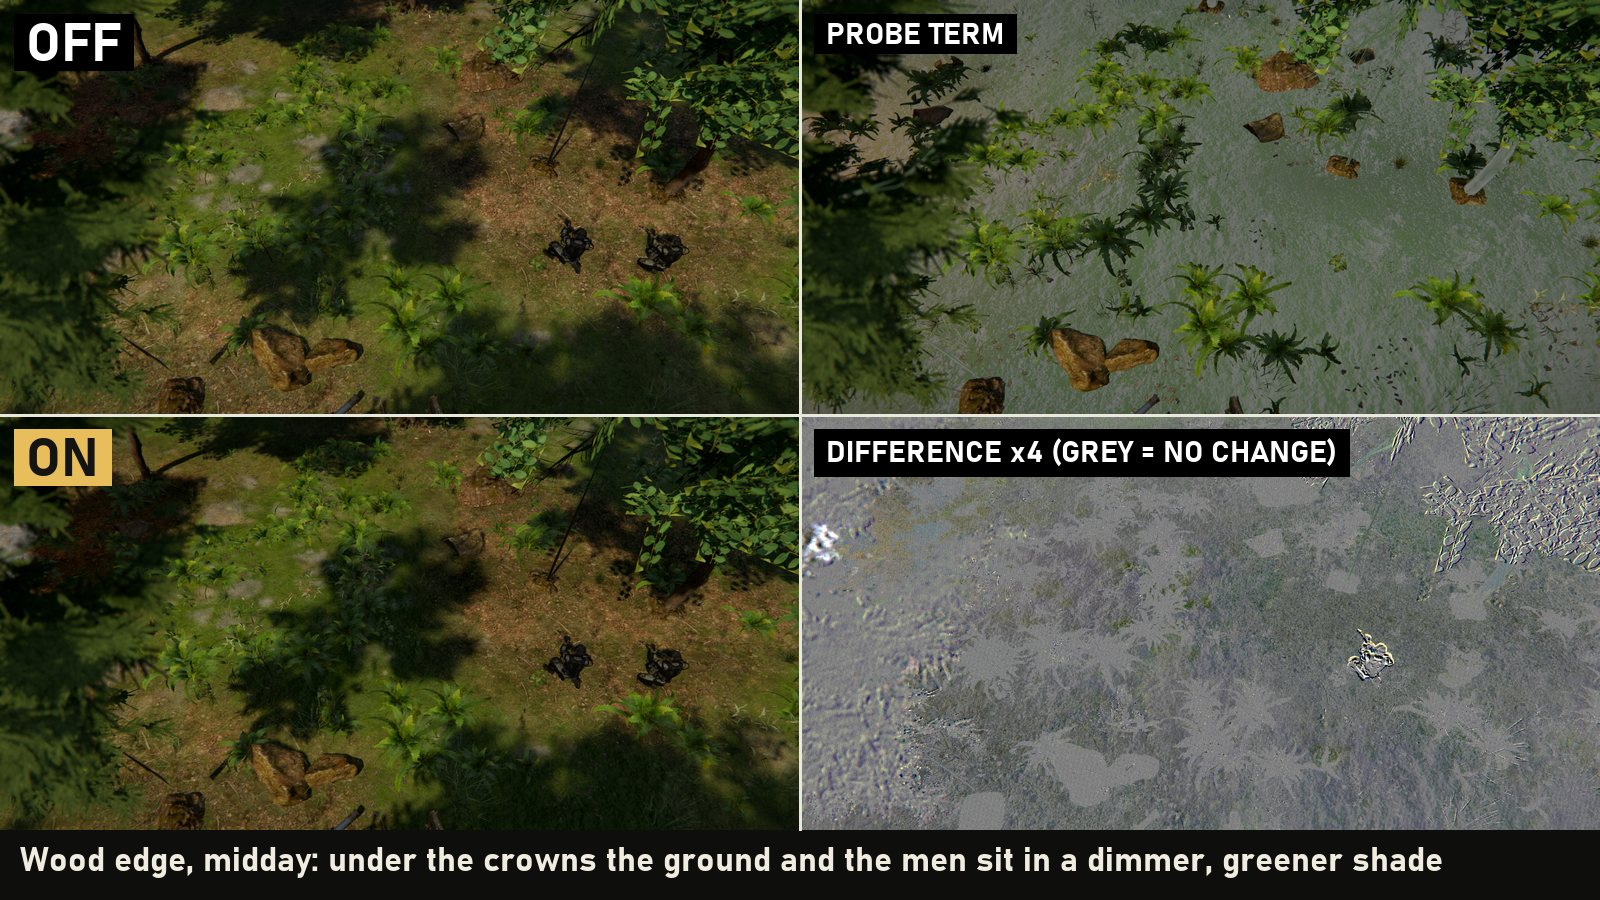
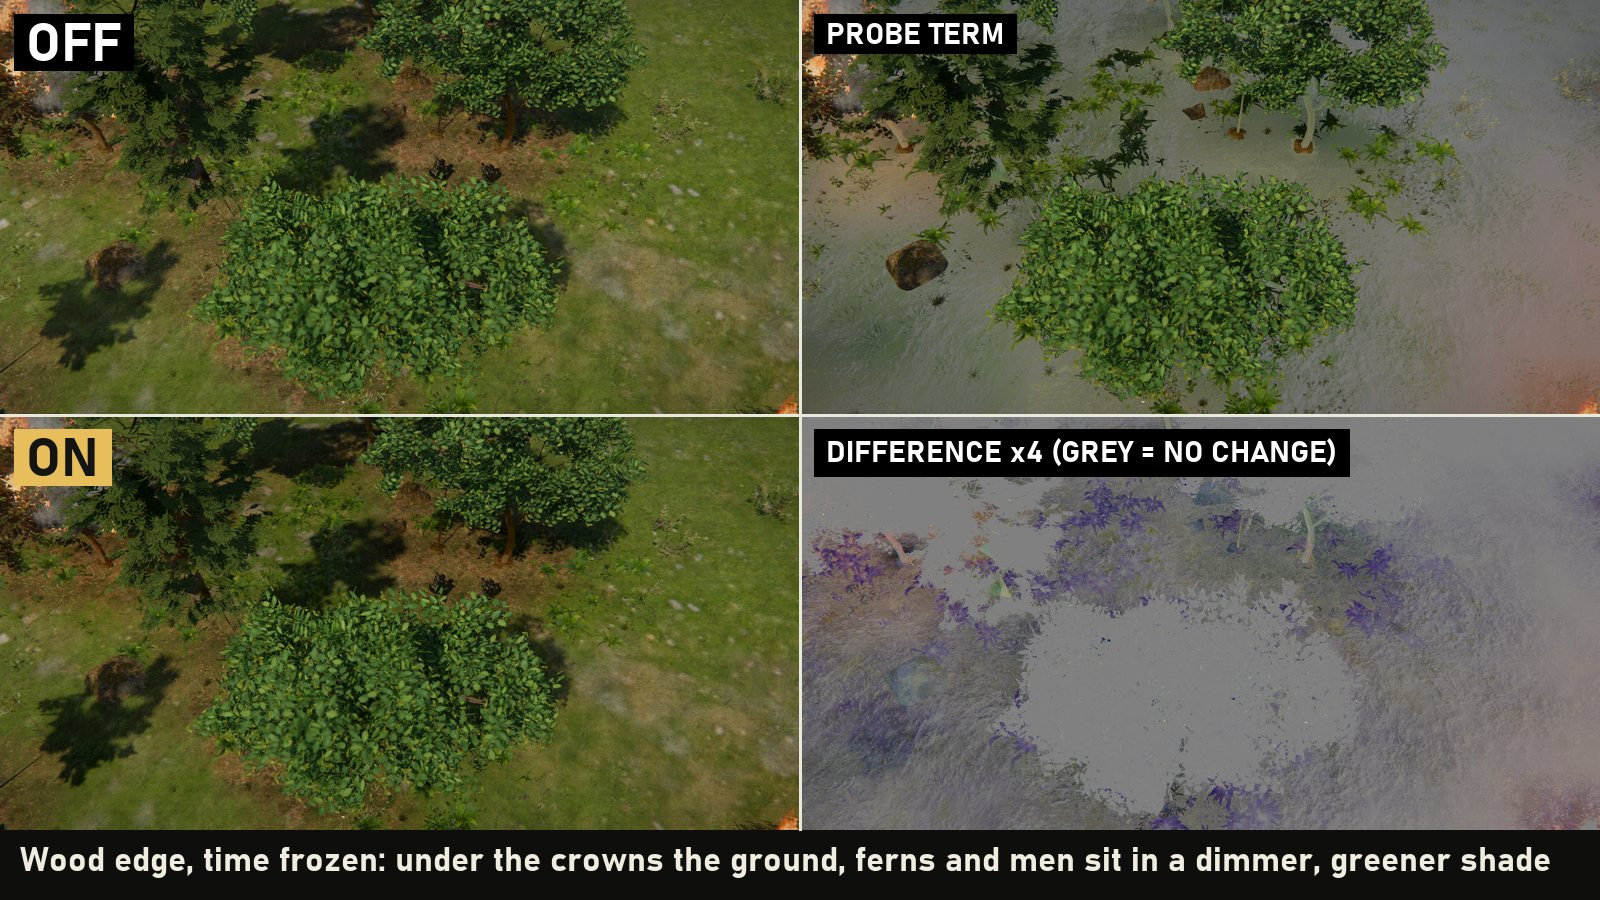
Light probes: woods that read as shade, frozen A/B captures
- Grass, ferns and woodland undergrowth read the probes once a vertex
  (CloudShadow.PROBES_VERTEX): they cover most of a wood's floor, and
  until now only the bare ground under them was shaded.
- Crowns stop three fifths of the light a cube (was a third), so the
  ground and the men under them sit 15-32% darker and greener while the
  open meadow beside them is unchanged.
- FL_DEBUG_PROBES_FREEZE=<dir>: the debug cycle stops time (no sway,
  flicker or drifting smoke) and saves off/on/term/bent of one instant,
  so the difference panel shows the light alone.

Re-rendered the wood-edge sheet from a frozen capture framed on the wood
and the open meadow beside it.

diff --git a/docs/FEATURES.md b/docs/FEATURES.md
@@ -1336,9 +1336,10 @@ av.gd`, `hnav.gd`, `terrain.gd`, `squad.gd`)
   reflected direction, m0 + 3 m1.r for a glossy surface easing to the cosine's m0 + 2 m1.n for a rough one, and the
   rest of the reflection shows the room's own bounce instead (Godot's RADIANCE), so wet floors indoors, under eaves
   and in trenches stop mirroring the bright sky. Tree crowns are laid as leaves, sized to the tree the game grows (a
-  fir's cone in two tiers, a field tree's dome, an orchard tree's small one), a third of the light stopped a cube;
-  the trace tells them apart and what comes through or off them is green, so a wood's floor and the men in it sit in
-  a dimmer, greener shade. Light leaks: a pixel on a floor by a wall sits between a probe in the room and one outside,
+  fir's cone in two tiers, a field tree's dome, an orchard tree's small one), two fifths of the light stopped a
+  cube; the trace tells them apart and what comes through or off them is green, so a wood's floor and the men in it
+  sit in a dimmer, greener shade. Grass, ferns and undergrowth (which cover most of a wood's floor) read the probes
+  too, once a vertex rather than a pixel (`CloudShadow.PROBES_VERTEX`), each blade as if it faced up. Light leaks: a pixel on a floor by a wall sits between a probe in the room and one outside,
   so on High it reads the cubes halfway to the probes on either side of it, each way (six reads), and leaves out any
   with a wall or roof between (a cheap stand-in for DDGI's per-probe depth). Fires and lamps (lights in the
   `probe_light` group) light the probes round them: the 16 nearest the camera, at their steady brightness rather

diff --git a/changelog/unreleased/light-probes.md b/changelog/unreleased/light-probes.md
@@ -13,7 +13,7 @@ caption = "The same room in the rain. Without the probes its wet tiles mirror th
 
 [[screenshots]]
 file = "wood-edge.jpg"
-caption = "The edge of a wood at midday. Under the trees the ground and the men on it sit in a dimmer, greener shade: the probes see the crowns as leaves, and light that comes through or off them is green."
+caption = "The edge of a wood at midday, time frozen so only the light changes. Under the trees the ground, the ferns and the men sit in a dimmer, greener shade; the open meadow beside them is unchanged."
 
 [[screenshots]]
 file = "fire-glow-night.jpg"
@@ -40,7 +40,7 @@ caption = "A house blown down, the game beside the probe term: within a second t
   dark corners are dim, not black.
 - **Reflections know what's overhead:** wet floors indoors, under eaves and in trenches no longer mirror the bright
   sky they can't see; they reflect the room round them instead.
-- **Woods:** under the trees the ground and soldiers sit in a dimmer, green-tinted shade.
+- **Woods:** under the trees the ground, the grass and ferns on it and the soldiers sit in a dimmer, green-tinted shade.
 - **Fires and street lamps** throw a little warm light on the walls and ground round them, past where their own
   light reaches, but not through walls. In the browser, which has no fire lights, this is the glow fires give.
 - **No light through walls:** the floor along a wall indoors and the top of a wall no longer pick up light from
